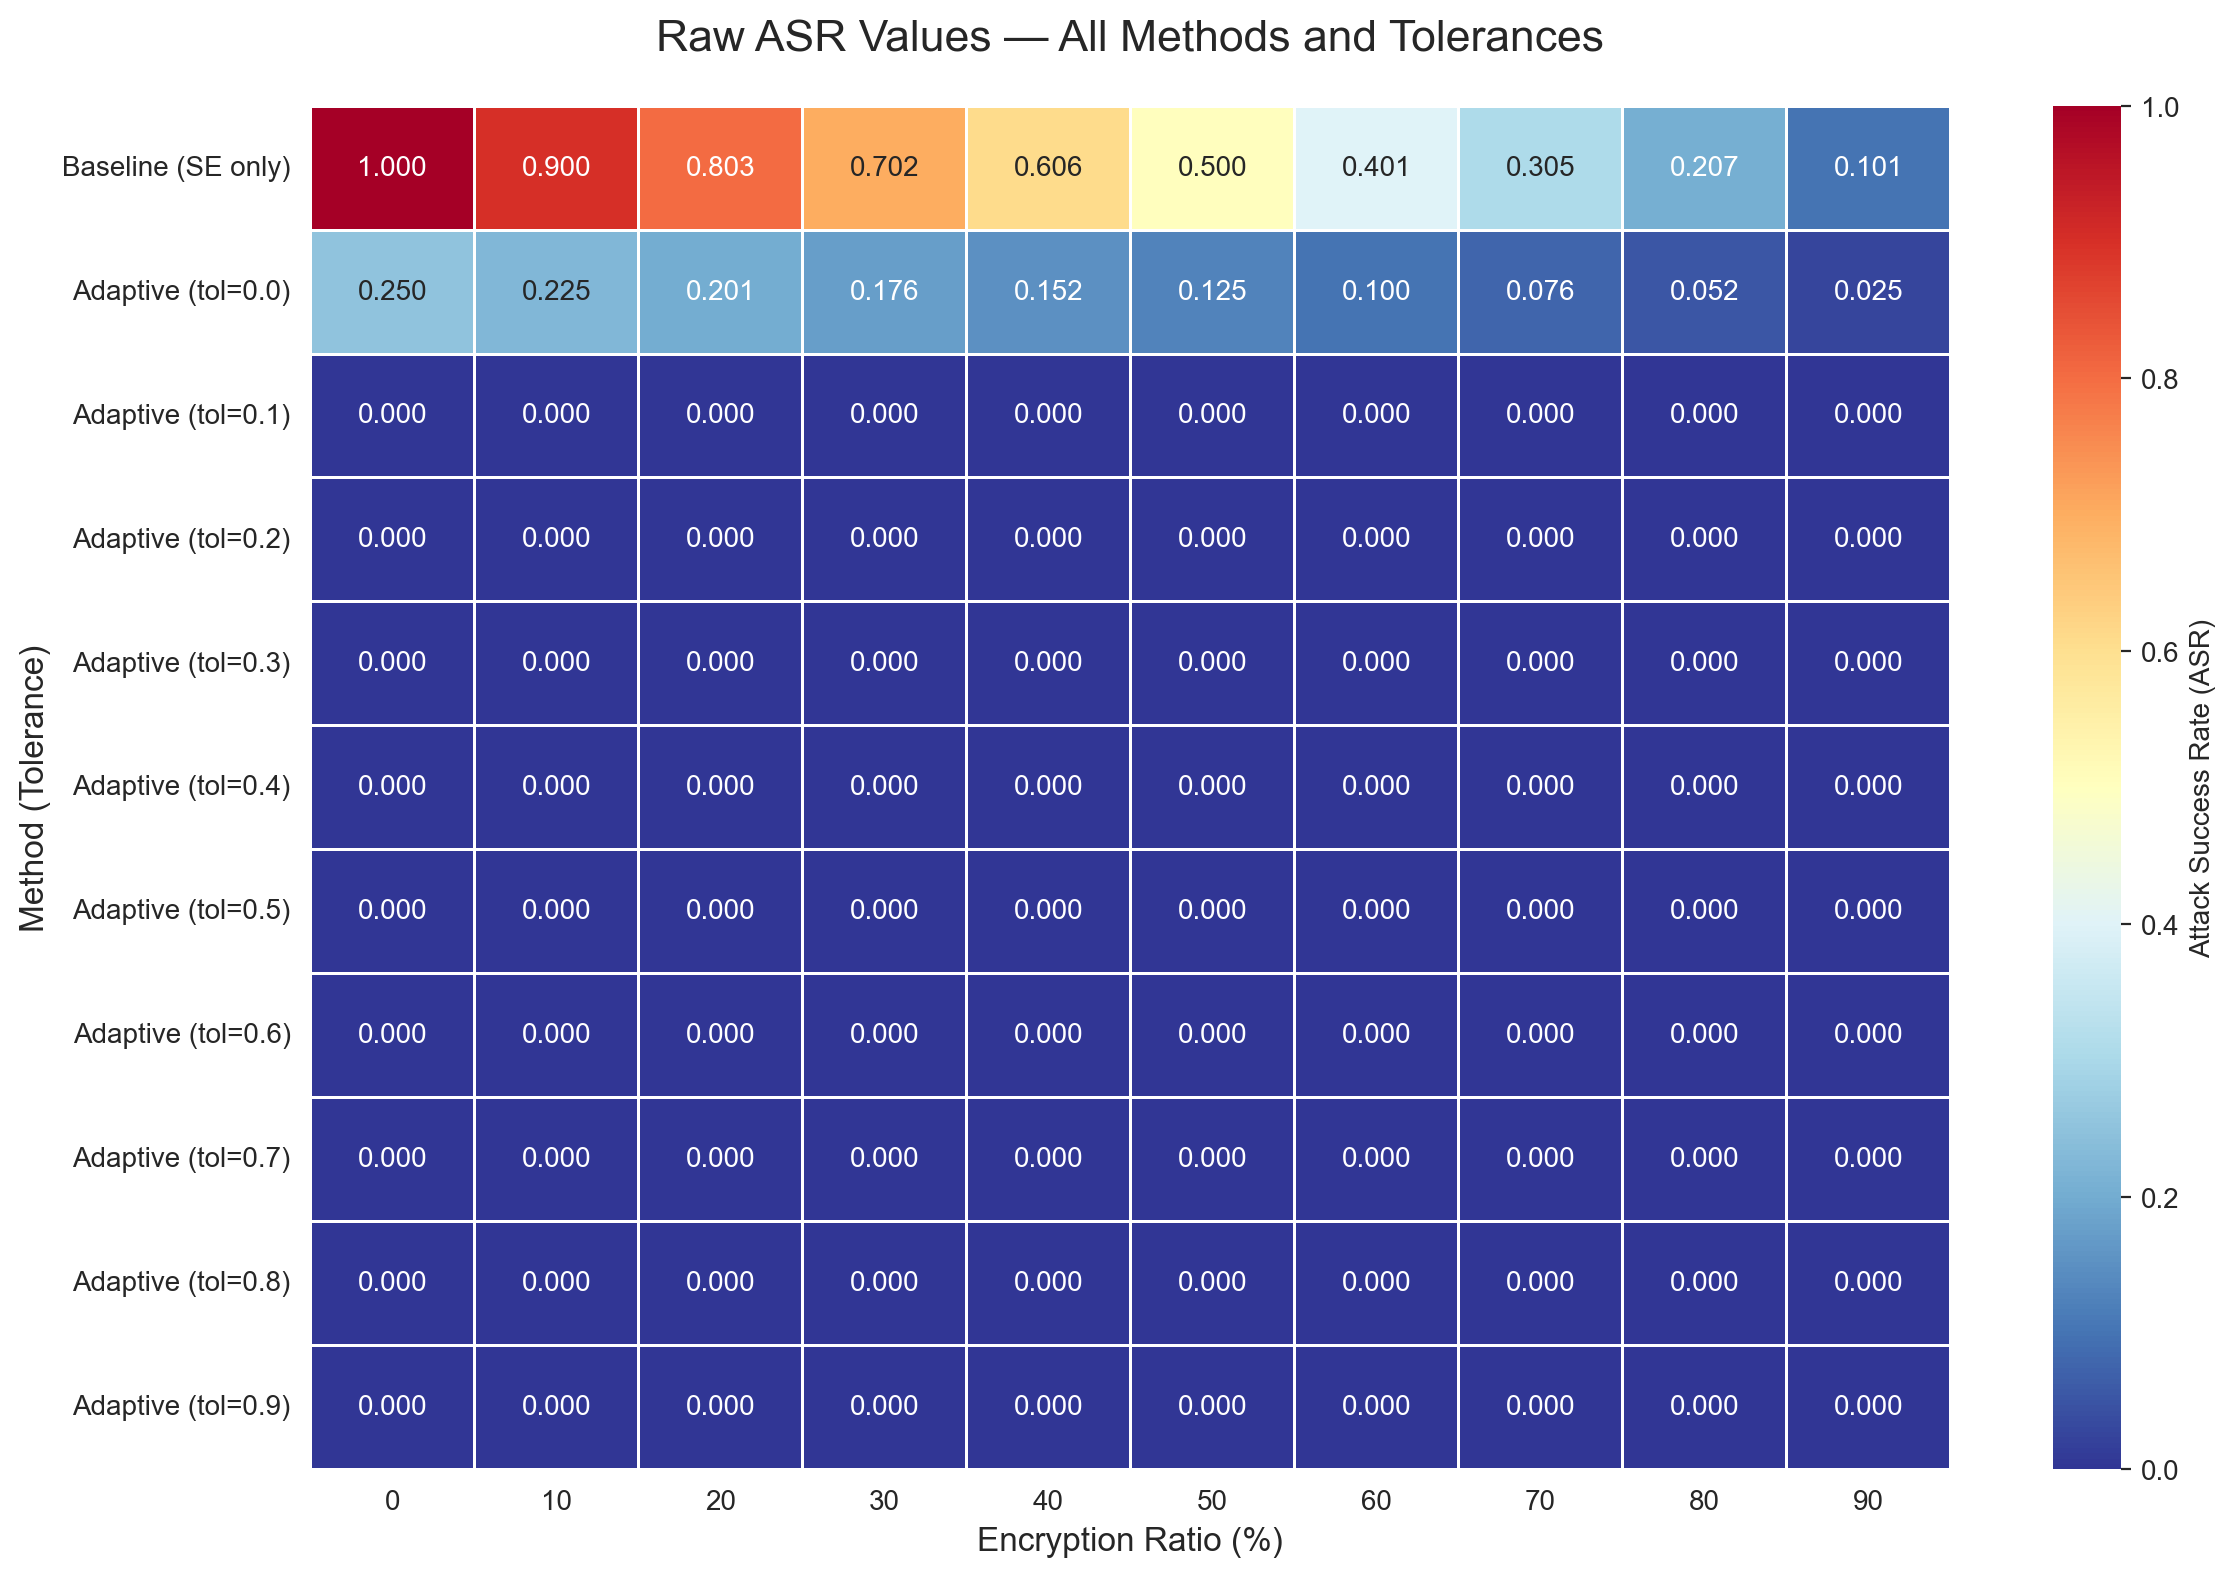
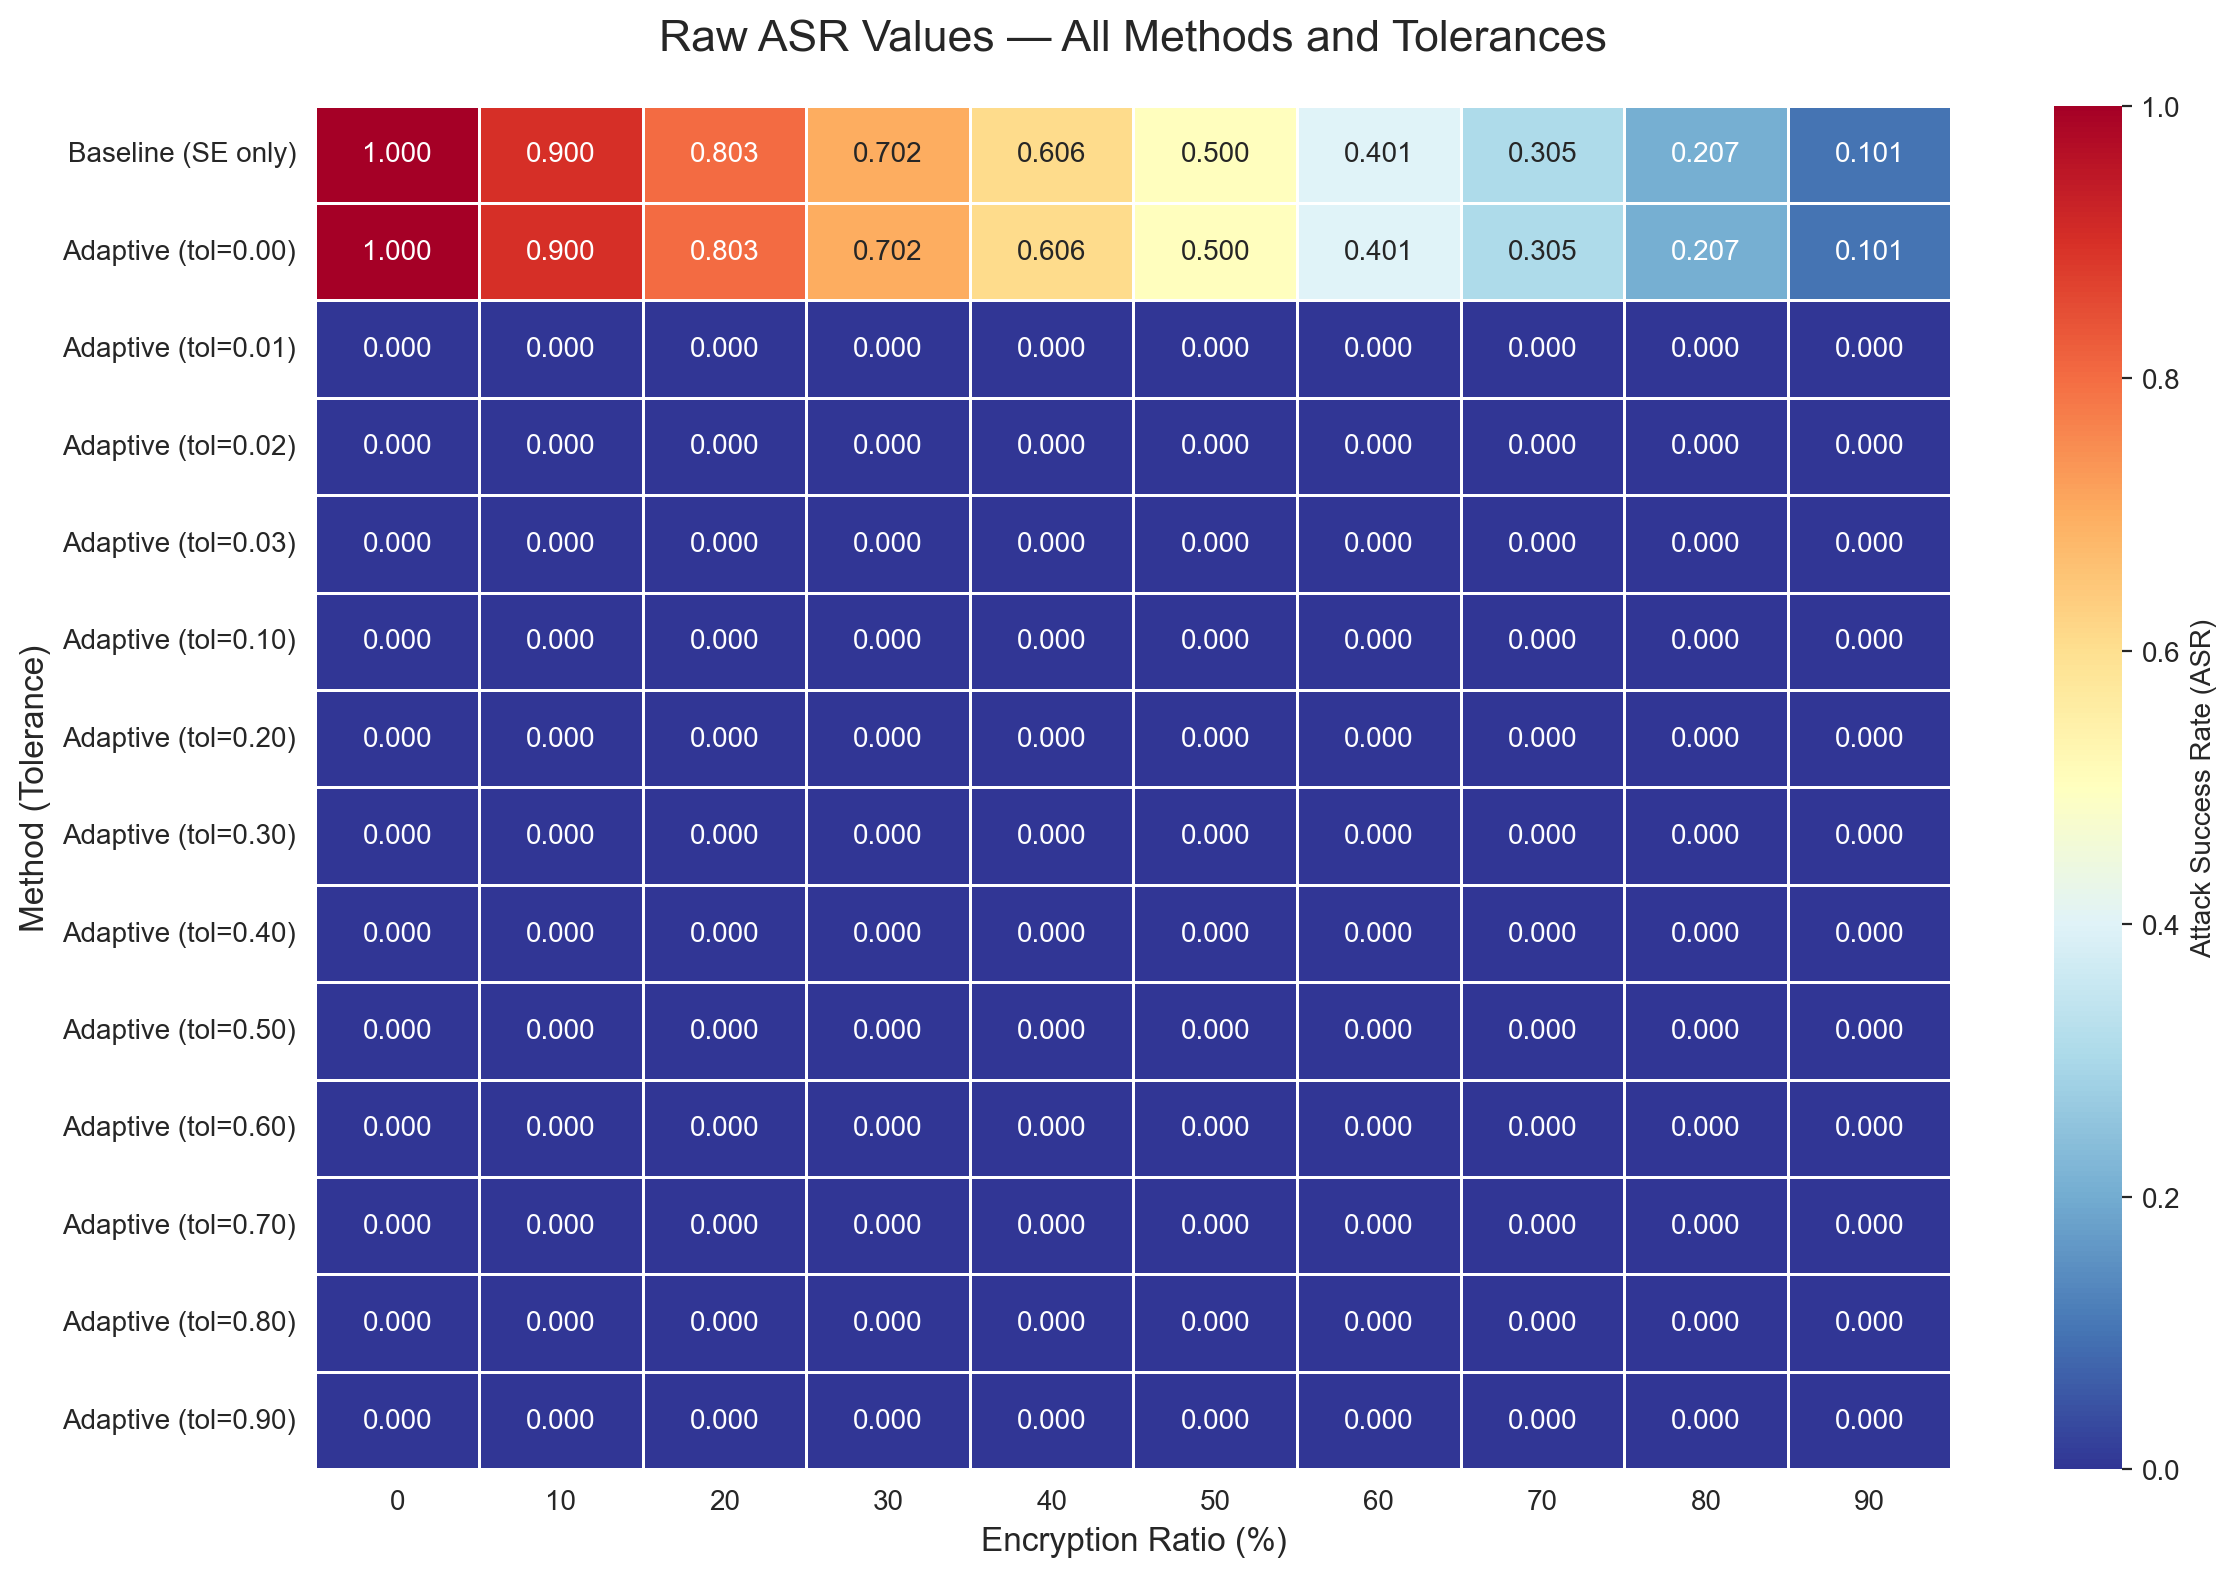
Fix Matching and Tolerance Behaviour

diff --git a/utils.go b/utils.go
@@ -669,6 +669,23 @@ func uniqueDataBlock(P []*party, arr []float64, party int, index int, input_type
 	return unique
 }
 
+// valuesMatchWithinTolerance checks if two values match within a given tolerance percentage
+// tolerance of 0.2 means values can differ by up to 20%
+func valuesMatchWithinTolerance(expected, actual, tolerance float64) bool {
+	if expected == 0.0 && actual == 0.0 {
+		return true
+	}
+	if expected == 0.0 {
+		return math.Abs(actual) <= tolerance
+	}
+
+	// Calculate the allowed range: expected ± (expected * tolerance)
+	lowerBound := expected * (1.0 - tolerance)
+	upperBound := expected * (1.0 + tolerance)
+
+	return actual >= lowerBound && actual <= upperBound
+}
+
 func identifyParty(P []*party, arr []float64, party int, index int) []int {
 	var matched_households = []int{}
 	var dataset = P[party].rawInput[index : index+atdSize]
@@ -678,48 +695,34 @@ func identifyParty(P []*party, arr []float64, party int, index int) []int {
 		fmt.Printf("ATTACK DEBUG: Equal? %v\n", reflect.DeepEqual(dataset, arr))
 	} */
 
-	var min_length int = int(math.Ceil(float64(len(arr)) * float64(min_percent_matched) / 100))
+	// Calculate tolerance for value-based matching
+	tolerance := 1.0 - (float64(min_percent_matched) / 100.0) // e.g., 80% -> 0.2 tolerance
 
-	if min_length == len(arr) {
-		if uniqueATD == 0 {
-			// For baseline testing, don't require uniqueness - just exact match
-			if reflect.DeepEqual(dataset, arr) {
-				matched_households = append(matched_households, party)
-			}
+	// Count how many values match within tolerance
+	var matchingValues int = 0
+	for i := 0; i < len(arr); i++ {
+		if valuesMatchWithinTolerance(arr[i], dataset[i], tolerance) {
+			matchingValues++
+		}
+	}
+
+	// Check if enough values match within tolerance
+	requiredMatches := int(math.Ceil(float64(len(arr)) * float64(min_percent_matched) / 100.0))
+	if matchingValues >= requiredMatches {
+		// For uniqueness checking, we still need to use the encrypted data comparison
+		var pos_matches = [][]float64{}
+		if atdSize <= sectionSize {
+			var pos_match1 = P[party].encryptedInput[index : index+requiredMatches]
+			var post_match2 = P[party].encryptedInput[index+atdSize-requiredMatches : index+atdSize]
+			pos_matches = append(pos_matches, pos_match1, post_match2)
 		} else {
-			if reflect.DeepEqual(dataset, arr) {
-				matched_households = append(matched_households, party)
+			for i := 0; i <= len(arr)-requiredMatches; i++ {
+				var pos_match = P[party].encryptedInput[index+i : index+requiredMatches+i]
+				pos_matches = append(pos_matches, pos_match)
 			}
 		}
-	} else {
-		var match int = 0
-		var mismatch int = 0
-		for i := 0; i < len(arr); i++ {
-			if reflect.DeepEqual(arr[i], dataset[i]) {
-				match += 1
-			} else {
-				mismatch += 1
-			}
-			if mismatch > (len(arr) - min_length) {
-				break
-			}
-		}
-
-		if float64(match)/float64(len(arr)) >= float64(min_percent_matched)/100.0 {
-			var pos_matches = [][]float64{}
-			if atdSize <= sectionSize {
-				var pos_match1 = P[party].encryptedInput[index : index+min_length]
-				var post_match2 = P[party].encryptedInput[index+atdSize-min_length : index+atdSize]
-				pos_matches = append(pos_matches, pos_match1, post_match2)
-			} else {
-				for i := 0; i <= len(arr)-min_length; i++ {
-					var pos_match = P[party].encryptedInput[index+i : index+min_length+i]
-					pos_matches = append(pos_matches, pos_match)
-				}
-			}
-			if uniqueDataBlocks(P, pos_matches, party, index, min_length) {
-				matched_households = append(matched_households, party)
-			}
+		if uniqueDataBlocks(P, pos_matches, party, index, requiredMatches) {
+			matched_households = append(matched_households, party)
 		}
 	}
 	return matched_households

diff --git a/working_series_break.go b/working_series_break.go
@@ -347,12 +347,9 @@ func applyAdaptivePatternBreaking(data [][]float64, tolerance float64) [][]float
 
 	result := copyMatrix(data)
 
-	// Make breaking MORE aggressive - scale tolerance up
-	effectiveTolerance := tolerance * 2.0 // Double the aggressiveness
-
 	for h := 0; h < len(data); h++ {
-		// Apply more disruptive breaking with household-specific variations
-		applyAggressiveBreakingWithHousehold(result[h], effectiveTolerance, h)
+		// Apply tolerance-scaled breaking with household-specific variations
+		applyAggressiveBreakingWithHousehold(result[h], tolerance, h)
 	}
 	return result
 }
@@ -362,43 +359,57 @@ func applyAggressiveBreakingWithHousehold(data []float64, tolerance float64, hou
 		return
 	}
 
-	//fmt.Printf("NUCLEAR: Processing %d values for household %d\n", len(data), householdIndex)
+	// Only show debug for first household to avoid spam
+	if householdIndex == 0 {
+		fmt.Printf("FUZZING: Processing %d values for household %d with tolerance %.3f\n", len(data), householdIndex, tolerance)
+	}
 
 	changes := 0
 
-	// MASSIVE HOUSEHOLD-SPECIFIC VARIATIONS to prevent sequence collisions
-	// With 80 households and ATD=4, we need HUGE variations between households
+	// Calculate total budget based on data sum and tolerance
+	totalSum := sum(data)
+	totalBudget := totalSum * tolerance
+
+	if householdIndex == 0 {
+		fmt.Printf("FUZZING: Total sum %.3f, budget %.3f (%.1f%%)\n", totalSum, totalBudget, tolerance*100)
+	}
+
+	// Distribute changes proportionally across value pairs
+	pairCount := len(data) / 2
+	if pairCount == 0 {
+		return
+	}
+
+	budgetPerPair := totalBudget / float64(pairCount)
+
+	// Add household-specific variation to prevent identical sequences across households
+	householdMultiplier := 1.0 + float64(householdIndex)*0.1 // 1.0, 1.1, 1.2, etc.
+
 	for i := 0; i < len(data)-1; i += 2 {
 		if i+1 < len(data) {
-			// Create MASSIVE household-specific variation to prevent identical sequences
-			baseChange := 0.1 + float64(householdIndex)*0.05 // 0.1 to 4.05 based on household
+			// Scale change amount by tolerance and add household variation
+			baseChangeAmount := budgetPerPair * householdMultiplier
 
-			// Add position-based variation for different windows within same household
-			positionVariation := float64(i%100) * 0.01 // 0.00 to 0.99 based on position
+			// Add some position-based variation within the budget
+			positionVariation := float64((i/2)%3) * 0.1 * baseChangeAmount // 0%, 10%, 20% variation
+			changeAmount := baseChangeAmount + positionVariation
 
-			// Add deterministic but unique component per household/position
-			uniqueComponent := float64(((householdIndex*2003)+(i*4001))%10000) / 100.0 // 0.00 - 99.99
-
-			changeAmount := baseChange + positionVariation + uniqueComponent
+			// Only show debug for first household and first few pairs
+			if householdIndex == 0 && i < 6 {
+				//fmt.Printf("FUZZING: Pair %d-%d: changing by ±%.3f\n", i, i+1, changeAmount)
+			}
 
 			// Zero-sum redistribution: add to one, subtract from the other
-			if data[i] == 0.0 {
-				data[i] = changeAmount
-			} else {
-				data[i] += changeAmount
-			}
-
-			if data[i+1] == 0.0 {
-				data[i+1] = -changeAmount
-			} else {
-				data[i+1] -= changeAmount
-			}
+			data[i] += changeAmount
+			data[i+1] -= changeAmount
 
 			changes += 2
 		}
 	}
 
-	//fmt.Printf("NUCLEAR: Made %d MASSIVE changes for household %d (should be ~%d)\n", changes, householdIndex, len(data))
+	if householdIndex == 0 {
+		//mt.Printf("FUZZING: Made %d changes for household %d\n", changes, householdIndex)
+	}
 }
 
 // Keep the old function for backward compatibility

diff --git a/combograph.py b/combograph.py
@@ -249,7 +249,7 @@ def make_raw_asr_heatmaps(df: pd.DataFrame):
     # Create method-tolerance combinations
     all_data["method_tol"] = all_data.apply(lambda row: 
         f"Baseline (SE only)" if row["approach"] == "none" 
-        else f"{row['approach'].capitalize()} (tol={row['tolerance']:.1f})", axis=1)
+        else f"{row['approach'].capitalize()} (tol={row['tolerance']:.2f})", axis=1)
     
     # Create pivot table
     pivot = all_data.pivot_table(index="method_tol", columns="ratio", values="asr", aggfunc="mean")
@@ -309,7 +309,7 @@ def make_raw_asr_heatmaps_separate(df: pd.DataFrame):
         # Create method-tolerance labels
         method_data["method_tol"] = method_data.apply(lambda row: 
             f"Baseline (SE only)" if row["approach"] == "none" 
-            else f"{row['approach'].capitalize()} (tol={row['tolerance']:.1f})", axis=1)
+            else f"{row['approach'].capitalize()} (tol={row['tolerance']:.2f})", axis=1)
         
         # Create pivot table
         pivot = method_data.pivot_table(index="method_tol", columns="ratio", values="asr", aggfunc="mean")

diff --git a/w_orchestra.go b/w_orchestra.go
@@ -22,6 +22,7 @@ var (
 	flagRatios    = flag.String("ratios", "", "comma-separated ratios, e.g. 35,40,45")
 	flagLoops     = flag.Int("loops", 200, "attack loops for ASR estimate")
 	flagATD       = flag.Int("atd", 24, "attacker leaked block size (samples)")
+	flagMatchPct  = flag.Int("match", 100, "minimum percentage match required (0-100)")
 	flagShowDebug = flag.Bool("debug", true, "print encryption coverage/debug info")
 	flagCSVOut    = flag.String("csv", "test_results.csv", "output CSV file")
 )
@@ -161,6 +162,7 @@ func runOneCombo(original [][]float64, fileList []string, approach string, tol f
 	// Configure attacker globals
 	uniqueATD = 0
 	atdSize = atd
+	min_percent_matched = *flagMatchPct // Set matching percentage from command line
 	maxHouseholdsNumber = len(P)
 	transitionEqualityThreshold = ELECTRICITY_TRANSITION_EQUALITY_THRESHOLD
 
